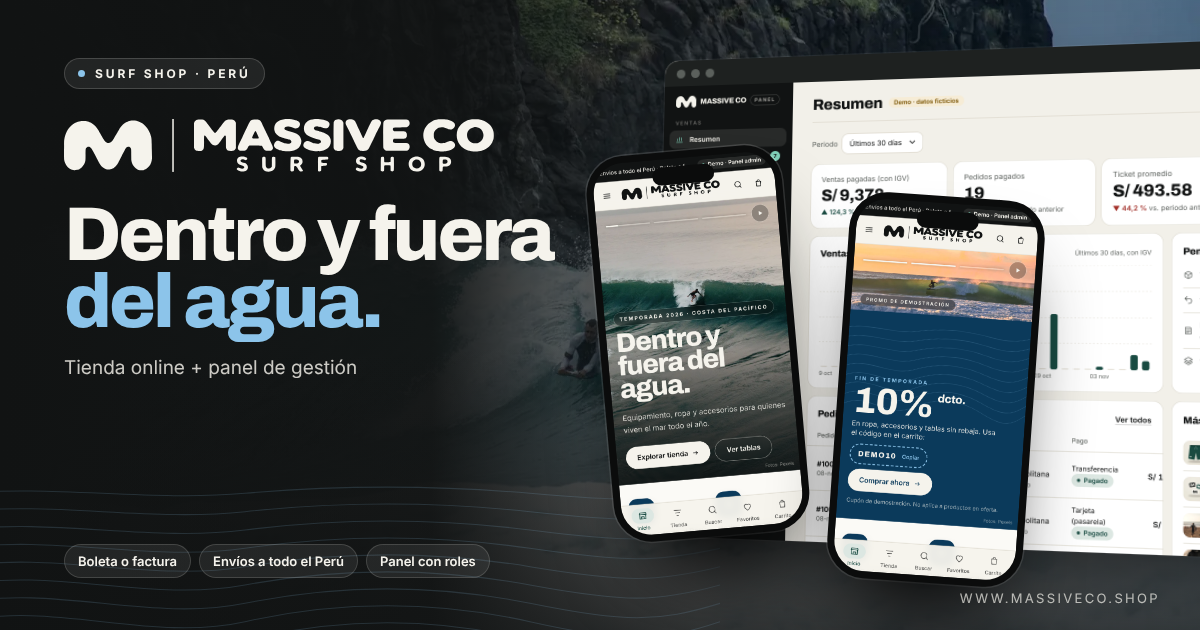
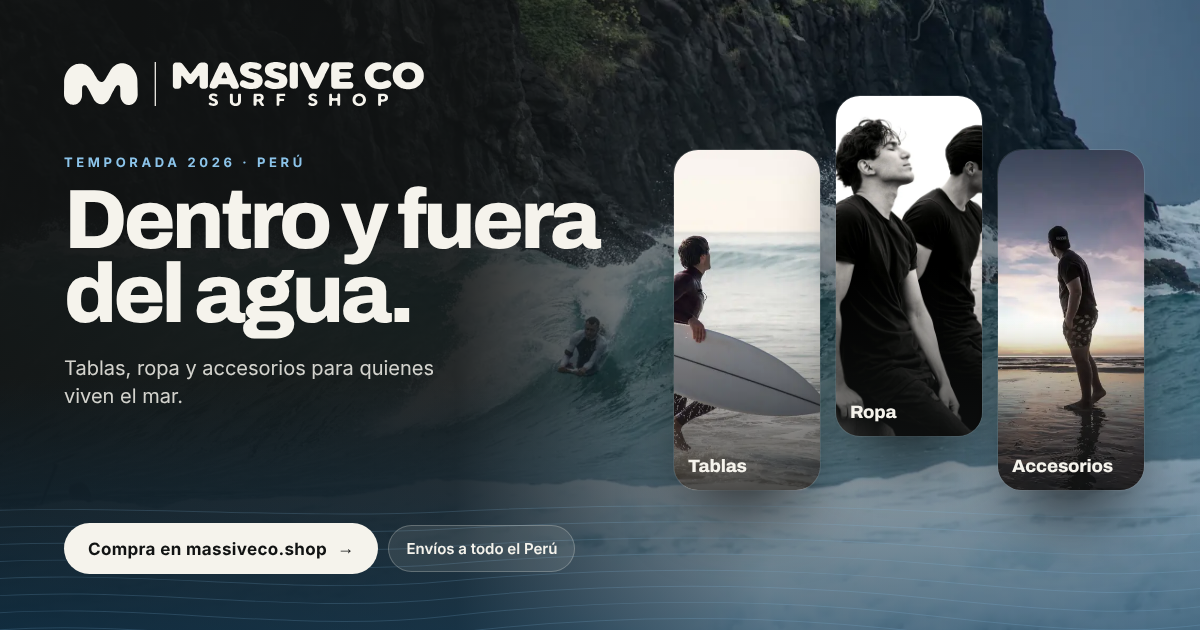
demo-massiveco: miniatura de marca MASSIVE CO Surf Shop
Claude-Session: https://claude.ai/code/session_01Fv4H8KErvPJaPPt2NJhuKt

diff --git a/public/demo-massiveco/index.html b/public/demo-massiveco/index.html
@@ -14,8 +14,8 @@
 <meta property="og:locale" content="es_PE">
 <meta property="og:site_name" content="MASSIVE CO">
 <meta property="og:url" content="https://alivedigital.agency/demo-massiveco/">
-<meta property="og:title" content="MASSIVE CO · Tienda online y panel (demo)">
-<meta property="og:description" content="Dentro y fuera del agua. Demo de tienda online con panel de administración.">
+<meta property="og:title" content="MASSIVE CO Surf Shop · Dentro y fuera del agua">
+<meta property="og:description" content="Tablas, ropa y accesorios para quienes viven el mar. Envíos a todo el Perú.">
 <meta property="og:image" content="https://alivedigital.agency/demo-massiveco/og.png">
 <meta property="og:image:width" content="1200">
 <meta property="og:image:height" content="630">
